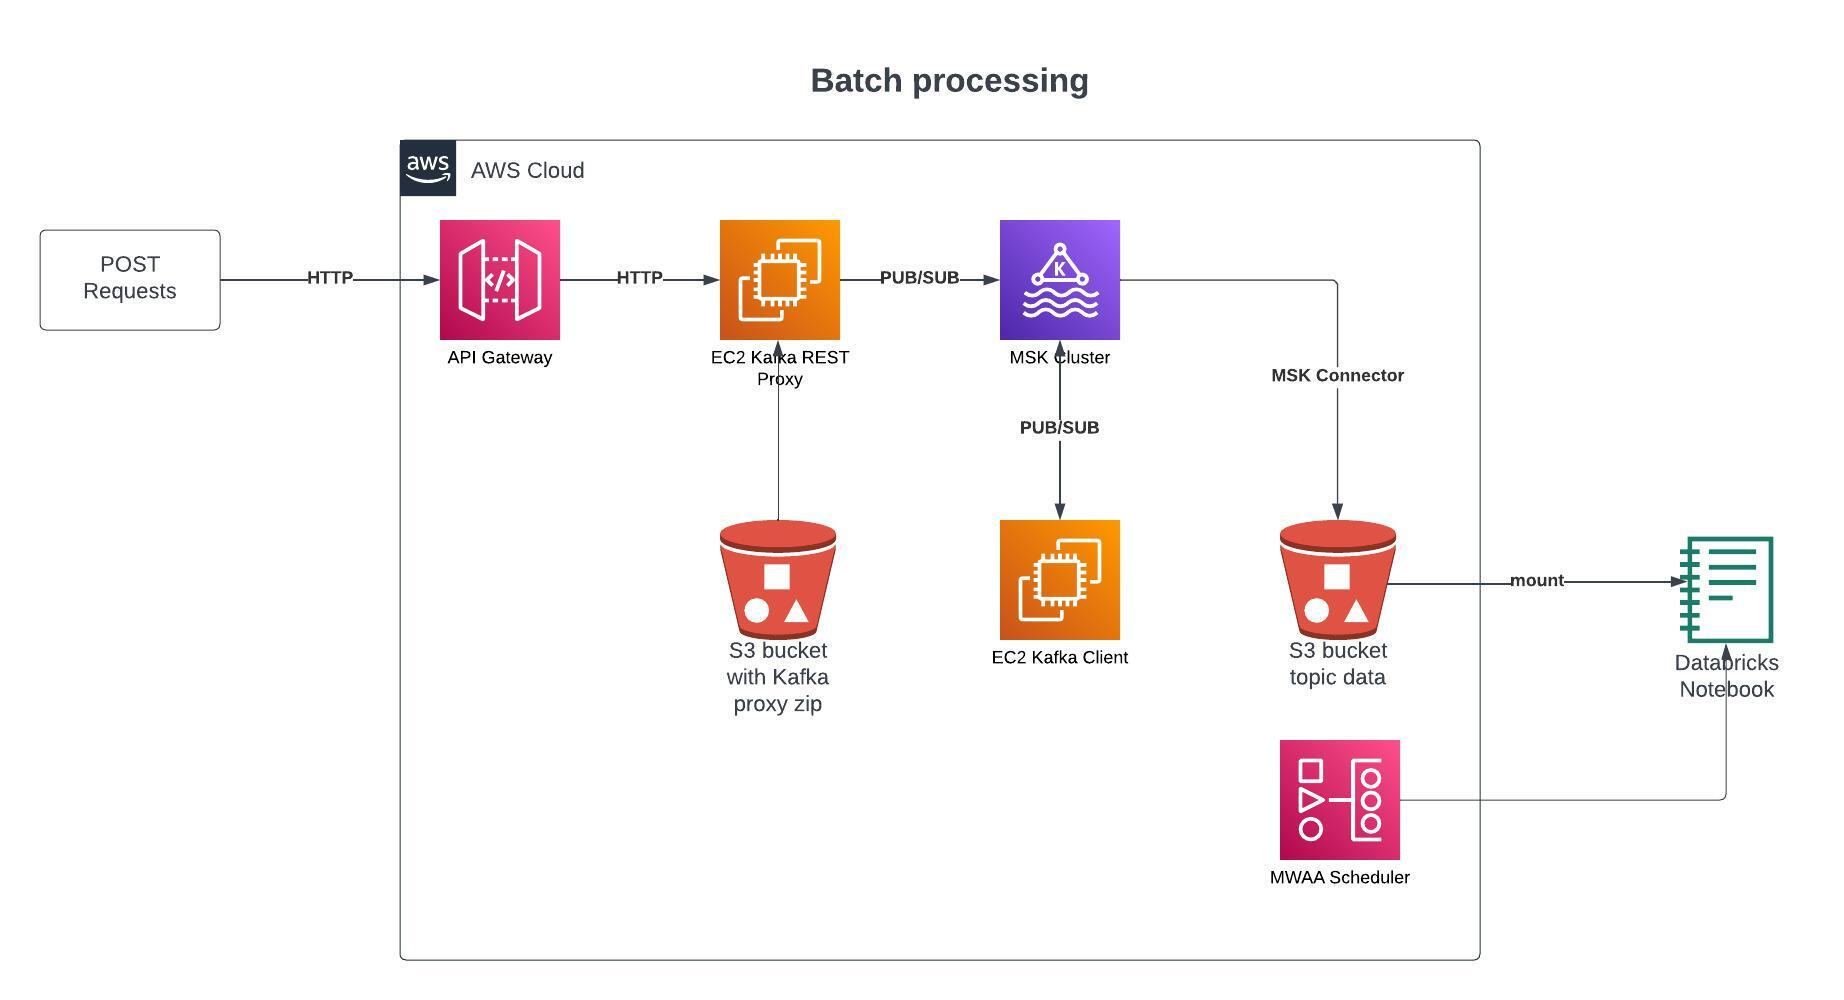
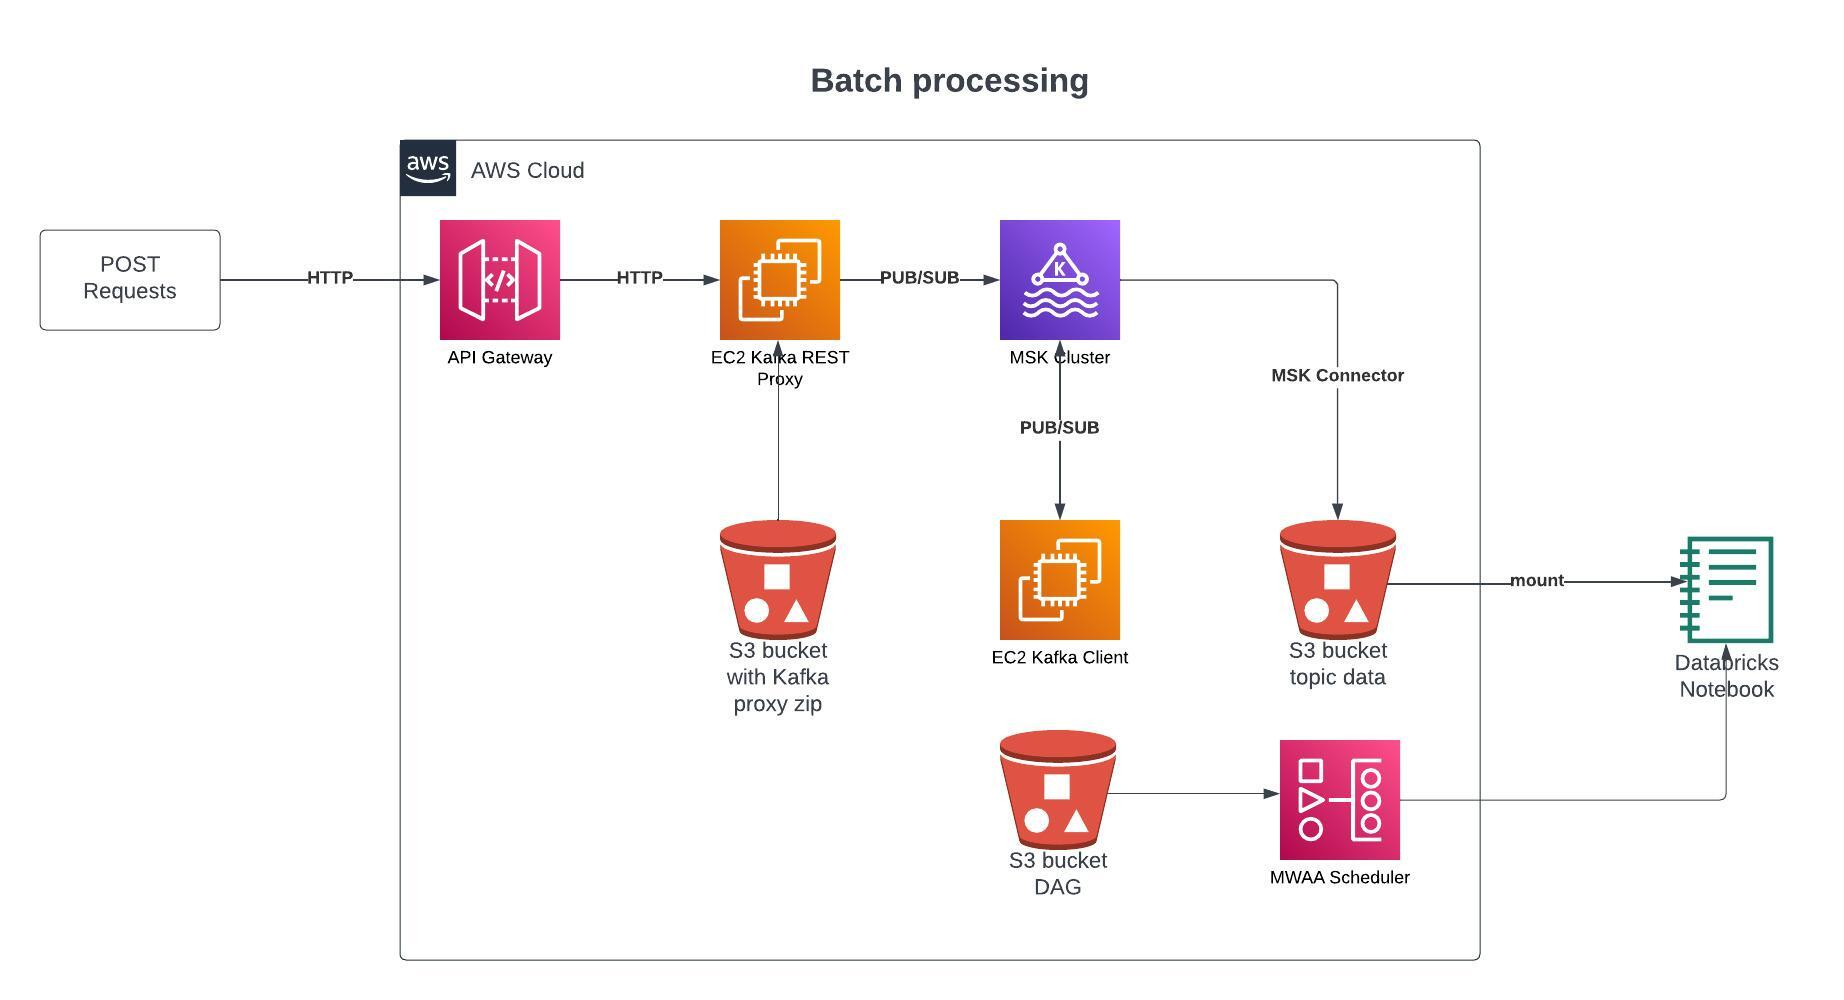
Add process flows for each pipeline. Update documentation

Changed region(s): [[0.5255, 0.713, 0.6182, 0.899]]

diff --git a/5_user_posting_emulation.py b/5_user_posting_emulation.py
@@ -12,6 +12,13 @@ HEADERS = {'Content-Type': 'application/vnd.kafka.json.v2+json'}
 
 
 def run_infinite_post_data_loop():
+    """
+    This function runs until it's manually stopped.
+    For 3 types of data (Pinterest, User and GeoLocation) it does the following
+      - Read data from an AWS database
+      - Create a JSON payload
+      - Send the payload as a POST request to an AWS API Gateway
+    """
     topics_endpoint_url = 'https://jydbc247f4.execute-api.us-east-1.amazonaws.com/Prod/topics/0e36c8cd403d'
 
     data_point_types = [

diff --git a/9_user_posting_emulation_streaming.py b/9_user_posting_emulation_streaming.py
@@ -12,6 +12,13 @@ HEADERS = {'Content-Type': 'application/json'}
 
 
 def run_infinite_post_data_loop():
+    """
+    This function runs until it's manually stopped.
+    For 3 types of data (Pinterest, User and GeoLocation) it does the following
+      - Read data from an AWS database
+      - Create a JSON payload
+      - Send the payload as a PUT request to an AWS API Gateway
+    """
     streams_endpoint_url = f"https://jydbc247f4.execute-api.us-east-1.amazonaws.com/Prod/streams/"
 
     data_point_types = [

diff --git a/8_0e36c8cd403d_dag.py b/8_0e36c8cd403d_dag.py
@@ -3,7 +3,7 @@ from airflow.providers.databricks.operators.databricks import DatabricksSubmitRu
 from datetime import datetime, timedelta
 
 # Define params for Submit Run Operator
-notebook_task = {'notebook_path': '/Users/lmachet@yahoo.com/Read, Clean, Query'}
+notebook_task = {'notebook_path': '/Users/lmachet@yahoo.com/batch_read_clean_query'}
 
 # Define params for Run Now Operator
 notebook_params = {}

diff --git a/extract.py b/extract.py
@@ -5,9 +5,7 @@ import sqlalchemy
 
 
 class AWSDBConnector:
-    """
-    A class to connect to an AWS hosted database
-    """
+    """A class to connect to an AWS hosted database"""
 
     def __init__(self):
         self.HOST = "pinterestdbreadonly.cq2e8zno855e.eu-west-1.rds.amazonaws.com"

diff --git a/README.md b/README.md
@@ -1,55 +1,53 @@
 # AiCore Project pinterest-data-pipeline
 
-
-## Table of Contents
-* [Project description](#project-description)
-* [Tech Stack](#tech-stack)
-* [Project aim](#project-aim)
-* [What I've learned](#what-ive-learned)
-* [Breakdown of steps](#breakdown-of-steps)
-* [Setup](#setup)
-* [Usage](#usage)
-* [Description of files](#description-of-files)
-* [Licence](#license)
-
 #### Project description
-This project replicates Pinterest's experimental data pipeline. We build a pipeline which contains both batch and streaming processing.
-All configuration is done using AWS. The MSK cluster is already setup along with 2 roles.
+Replicate Pinterest's experimental data pipeline. Pinterest have billions of user interactions such as image uploads or image clicks 
+which they need to process every day to inform the decisions to make. The project builds a system hosted in the cloud 
+that ingests both batch and streaming events, and runs them through separate pipelines. The streaming pipeline will be 
+used to compute real-time metrics (to recommend a profile in real-time), and the batch pipeline is used for computing 
+metrics that depend on historical data.
 
-### Tech Stack
+#### Tech Stack
 ![Apache Kafka](https://img.shields.io/badge/Apache%20Kafka-000?style=for-the-badge&logo=apachekafka)
 ![Apache Spark](https://img.shields.io/badge/Apache%20Spark-FDEE21?style=flat-square&logo=apachespark&logoColor=black)
 ![AWS](https://img.shields.io/badge/AWS-%23FF9900.svg?style=for-the-badge&logo=amazon-aws&logoColor=white)
 ![Python](https://img.shields.io/badge/python-3670A0?style=for-the-badge&logo=python&logoColor=ffdd54)
 
+#### Pipeline Flows
+![batch_arch.jpeg](documentation%2Fprocess_flow%2Fbatch_arch.jpeg)
+![streaming_arch.jpeg](documentation%2Fprocess_flow%2Fstreaming_arch.jpeg)
 
 #### Project aim
-Put into practice concepts learnt about AWS, Apache Kafka, Apache Spark, Apache Airflow and Databricks.  
+Put into practice concepts learnt about AWS, Kafka, Spark, Airflow and Databricks. Use python as the central
+language across all applications.
+
+For AWS we configured: IAM roles, EC2 instances, S3 buckets, a MSK Cluster, API Gateways and a MWAA Scheduler.
+In Kafka we created topics, used producers and consumers and configured a REST proxy.
+Spark was hosted in Databricks. We used pyspark to extract, clean and load data.
+For Airflow we created a DAG to schedule a Databricks Notebook, we ran and monitored the job.
+We used Databricks to create Notebooks with python & pyspark commands.
 
 #### What I've learned
-  - A pipeline consists of many independent parts, each which has to be configured, tested and implemented correctly
-  - Working 
+  - A pipeline consists of many independent parts, each which has to be configured, tested and implemented correctly.
+  - Always check both the response code and the response text when sending requests.
+  - The power of chaining in pyspark
+  - If something seems difficult at first read the instructions a few times, try practicing the concept several times, find different sources to explain.
 
 #### Description of files
-| filename                              | description                                                                                                                                                               |
-|---------------------------------------|---------------------------------------------------------------------------------------------------------------------------------------------------------------------------|
-| 5_user_posting_emulation.py           | Python file (markdown format) description of the project.                                                                                                                 |
-| 6_mount_S3_bucket.ipynb               | Text file of packages to be installed by pip.                                                                                                                             |
-| 7_batch_read_clean_query.ipynb        | Text file for API keys to be populated and renamed.                                                                                                                       |
-| 8_0e36c8cd403d_dag.py                 | Javascript file. Contains most of the review and edit logic. Updates stars and ratings and re displays them after saving. <br/>Displays changed description after saving. |
-| 9_stream_read_clean_write.ipynb       | Javascript file. Enables bootstrap tooltips.                                                                                                                              |
-| 9_user_posting_emulation_streaming.py | Css file with shared styling for the project.                                                                                                                             |
-| README.md                             | Text file (markdown format) description of the project.                                                                                                                   |
+| filename                              | description                                                                                               |
+|---------------------------------------|-----------------------------------------------------------------------------------------------------------|
+| 5_user_posting_emulation.py           | Python file which extracts data from an AWS database and creates HTTP POST messages for batch processing. |
+| 6_mount_S3_bucket.ipynb               | Databricks notebook for mounting an S3 bucket.                                                            |
+| 7_batch_read_clean_query.ipynb        | Databricks notebook with code to read, clean and query Pinterest batch data.                              |
+| 8_0e36c8cd403d_dag.py                 | Python file. Contains code for MSWAA (AWS managed Airflow) to schedule a Databricks notebook run          |
+| 9_stream_read_clean_write.ipynb       | Databricks notebook with code to read and clean Pinterest stream data, and then write it to Delta Tables. |
+| 9_user_posting_emulation_streaming.py | Python file which extracts data from an AWS database and creates HTTP PUT messages for stream processing. |
+| README.md                             | Text file (markdown format) description of the project.                                                   |
+| extract.py                            | Classes used for data extraction.                                                                         |
 
-#### Setup
-##### Pre-requisites
-  - AWS cloud account
-  - MSK Cluster Setup with **zookeeper connection string** and **bootstrap brokers** noted
-  - EC2 Instance setup  
-  - User setup with region us-east-1 logged into AWS console and AWS GUI
-  - API REST Gateway
+#### Setup and Usage
+The project was split into milestones. Work done for each of the milestones has been documented in the links below
 
-##### Milestones 
 [Milestone 3 Batch Processing: Configure the EC2 Kafka client](documentation%2F3%2Fmilestone3.md)
 
 [Milestone 4 Batch Processing: Connect a MSK cluster to a S3 bucket](documentation%2F4%2Fmilestone4.md)

diff --git a/documentation/8/milestone8.md b/documentation/8/milestone8.md
@@ -15,7 +15,7 @@ spark.conf.get("spark.databricks.clusterUsageTags.clusterId")
 Pre-Requisite: AWS account has access to MWAA environment Databricks-Airflow-env and to its S3 bucket mwaa-dags-bucket.
 S3 bucket mwaa-dags-bucket contains a requirements.txt 
 
-DAG created: [0e36c8cd403d_dag.py](..%2F..%2F0e36c8cd403d_dag.py)
+DAG created: [8_0e36c8cd403d_dag.py](..%2F..%2F8_0e36c8cd403d_dag.py)
 
 DAG uploaded to mwaa-dags-bucket
 ![8.1.DAG_uploaded.jpg](8.1.DAG_uploaded.jpg)
